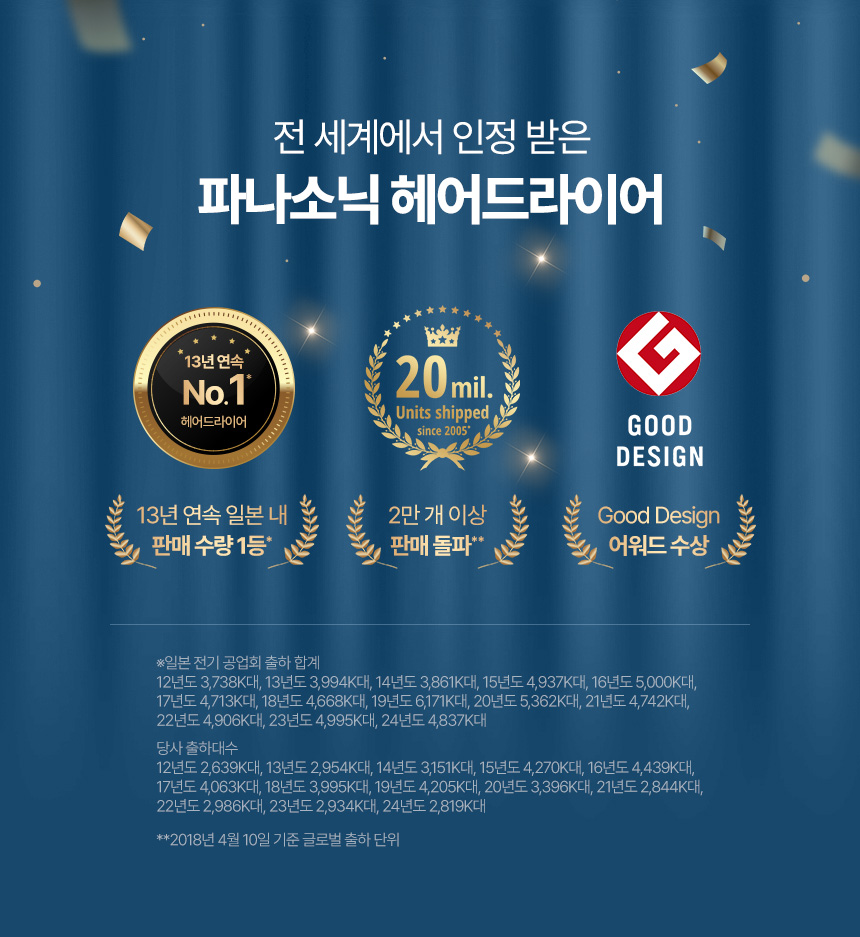
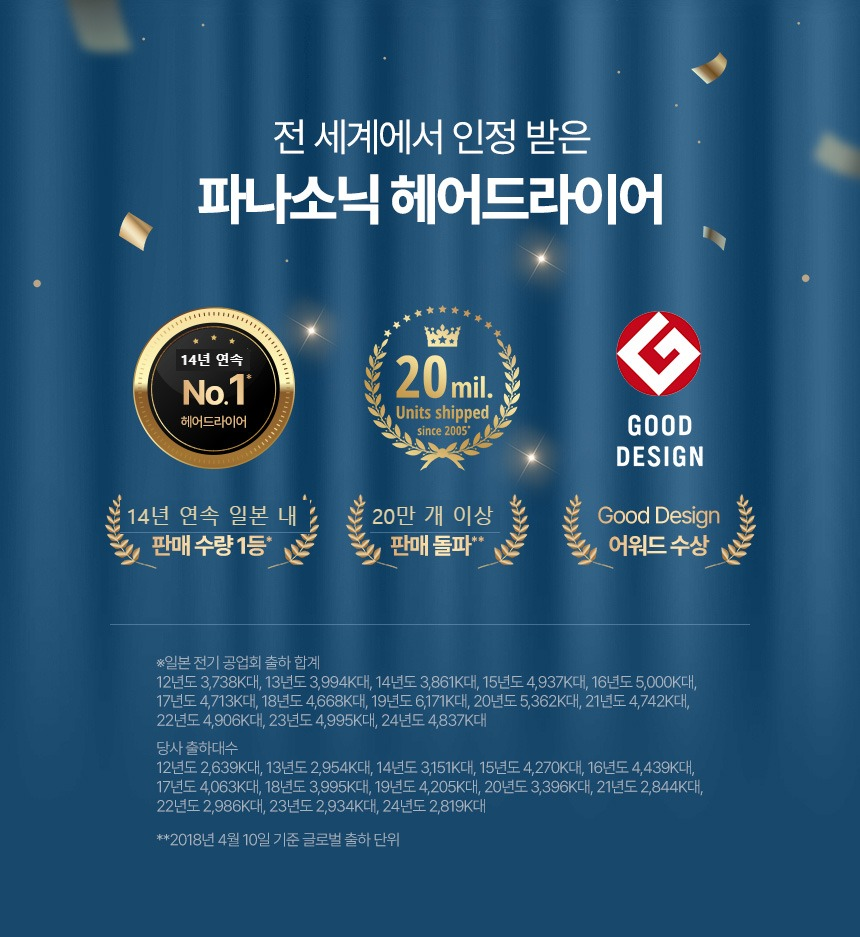
722/8
전반적인 수정

diff --git a/SensLink 홈페이지.dc.html b/SensLink 홈페이지.dc.html
@@ -26,6 +26,7 @@ div[style*="font-size:12px;padding:11px 22px;border-radius:5px"]{white-space:now
   div[style*="max-width:900px"],div[style*="max-width: 900px"],div[style*="max-width:1100px"],div[style*="max-width: 1100px"],div[style*="max-width:860px"],div[style*="max-width: 860px"]{padding-left:16px!important;padding-right:16px!important;box-sizing:border-box;}
   img{max-width:100%;}
   div[style*="grid-template-columns:repeat(4"],div[style*="grid-template-columns: repeat(4"]{grid-template-columns:repeat(2,1fr)!important;}
+  .review-grid{grid-template-columns:1fr!important;}
   div[style*="grid-template-columns:repeat(6"],div[style*="grid-template-columns: repeat(6"]{grid-template-columns:repeat(3,1fr)!important;}
   div[style*="grid-template-columns:repeat(3"],div[style*="grid-template-columns: repeat(3"]{grid-template-columns:repeat(1,1fr)!important;}
   div[style*="padding:8px 40px"],div[style*="padding: 8px 40px"]{padding:8px 16px!important;gap:6px!important;font-size:10px!important;overflow-x:auto;white-space:nowrap;}
@@ -63,10 +64,10 @@ div[style*="font-size:12px;padding:11px 22px;border-radius:5px"]{white-space:now
   div[style*="font-size:12px;padding:11px 22px;border-radius:5px"]{padding:10px 16px!important;font-size:13px!important;}
   .btn-suffix{display:none!important;}
   .hero-photo-mobile{display:block!important;width:100%;aspect-ratio:1/1;object-fit:cover;object-position:center center;}
-  .hero-copy div[style*="font-size:44px"]{font-size:17px!important;line-height:1.35!important;word-break:keep-all;white-space:nowrap;}
-  .hero-copy div[style*="font-size:44px"]>span:first-child{font-size:12px!important;}
-  .hero-copy div[style*="font-size:44px"]>span:last-child{font-size:15px!important;}
-  .hero-copy div[style*="font-size:44px"]>span:last-child u{font-size:15px!important;}
+  .hero-copy div[style*="font-size:40px"]{font-size:17px!important;line-height:1.35!important;word-break:keep-all;white-space:nowrap;}
+  .hero-copy div[style*="font-size:40px"]>span:first-child{font-size:12px!important;}
+  .hero-copy div[style*="font-size:40px"]>span:last-child{font-size:15px!important;}
+  .hero-copy div[style*="font-size:40px"]>span:last-child u{font-size:15px!important;}
   .hero-copy .hero-desc{font-size:13px!important;max-width:100%!important;margin-top:12px!important;word-break:keep-all;}
   .hero-copy div[style*="display:flex;gap:12px;margin-top:32px"]{margin-top:16px!important;justify-content:center!important;}
   #as-center-section{padding:0 12px 40px!important;}
@@ -118,8 +119,8 @@ div[style*="font-size:12px;padding:11px 22px;border-radius:5px"]{white-space:now
     </div>
     <div class="hero-copy" style="flex:1;min-width:0;">
       
-      <div style="font-size:44px;font-weight:800;line-height:1.25;color:#fff;letter-spacing:-.02em;"><span style="font-weight: 700; font-family: Arial; font-style: italic">일본 2천만대 판매&nbsp;</span><br><span style="font-weight: normal; color: rgb(226, 59, 59);"><img src="assets/japan-badge-red.png" alt="日本" style="height:0.85em;width:auto;vertical-align:-0.12em;display:inline-block;margin-right:6px;">
-<u style="font-family: Arial; text-decoration-line: none; font-weight: 700; text-transform: none; letter-spacing: -0.04em; font-size: 38px">14년 연속 판매 1위</u></span></div><div class="hero-desc" style="font-size: 16px; color: #fff; line-height: 1.6; margin-top: 20px; max-width: 460px; font-family: 'Pretendard', system-ui, sans-serif"><b style="background-color: #E51016">파나소닉 나노케어 헤어드라이기의 놀라운 효과<br>정품인증을 보증하며 14년간 일본 1위 제품을 만나보세요.</b></div>
+      <div style="font-size:40px;font-weight:800;line-height:1.25;color:#fff;letter-spacing:-.02em;"><span style="font-weight: 700; font-family: Arial; font-style: italic; color: #202020">일본 2천만대 판매&nbsp;</span><br><span style="font-weight: normal; color: #D4A94E;"><img src="assets/japan-badge-red.png" alt="日本" style="height:0.85em;width:auto;vertical-align:-0.12em;display:inline-block;margin-right:6px;">
+<u style="font-family: Arial; text-decoration-line: none; font-weight: 700; text-transform: none; letter-spacing: -0.04em; font-size: 34px">14년 연속 판매1위</u></span></div><div class="hero-desc" style="font-size: 19px; color: #1D5FBF; font-weight: 300; line-height: 1.6; margin-top: 20px; max-width: 460px; font-family: 'Pretendard', system-ui, sans-serif">파나소닉 나노케어 헤어드라이기의 놀라운 효과<br>정품인증을 보증하며 14년간 일본 1위 제품을 만나보세요.</div>
       <div style="display:flex;gap:12px;margin-top:32px;">
         <a href="SensLink 전체상품.dc.html" style="text-decoration:none;"><div style="background:#E23B3B;color:#fff;font-weight:700;font-size:12px;padding:11px 22px;border-radius:5px;" style-hover="background:#C42E2E;">전체 상품<span class="btn-suffix"> 보기</span></div></a>
         <a href="#best-products-section" style="text-decoration:none;"><div style="background:transparent;border:1px solid rgba(255,255,255,.5);color:#fff;font-weight:700;font-size:12px;padding:11px 22px;border-radius:5px;" style-hover="background:#E23B3B;border-color:#E23B3B;">베스트 상품<span class="btn-suffix"> 보기</span></div></a>
@@ -157,7 +158,7 @@ div[style*="font-size:12px;padding:11px 22px;border-radius:5px"]{white-space:now
       <div style="width:40px;height:40px;border-radius:50%;background:#fff;flex:none;display:flex;align-items:center;justify-content:center;box-shadow:0 2px 8px rgba(11,35,64,0.35);"><svg width="20" height="20" viewBox="0 0 24 24" fill="none" stroke="#1D5FBF" stroke-width="2" stroke-linecap="round" stroke-linejoin="round"><path d="M20 10c0 6-8 12-8 12s-8-6-8-12a8 8 0 0 1 16 0z"></path><circle cx="12" cy="10" r="3"></circle></svg></div>
       <div><div style="font-weight:700;font-size:14px;">전국 27개 센터 보유 프리미엄 브랜드</div><div style="font-size:12px;color:#C9D9F2;">전국 어디서나 빠른 서비스</div></div>
     </a>
-    <div style="background:linear-gradient(135deg,#0B2340 0%,#1D5FBF 100%);color:#fff;border-radius:10px;padding:20px;display:flex;gap:14px;align-items:center;">
+    <div onClick="{{ callCenter }}" style="background:linear-gradient(135deg,#0B2340 0%,#1D5FBF 100%);color:#fff;border-radius:10px;padding:20px;display:flex;gap:14px;align-items:center;cursor:pointer;">
       <div style="width:40px;height:40px;border-radius:50%;background:#fff;flex:none;display:flex;align-items:center;justify-content:center;box-shadow:0 2px 8px rgba(11,35,64,0.35);"><svg width="20" height="20" viewBox="0 0 24 24" fill="none" stroke="#1D5FBF" stroke-width="2" stroke-linecap="round" stroke-linejoin="round"><path d="M22 16.92v3a2 2 0 0 1-2.18 2 19.79 19.79 0 0 1-8.63-3.07 19.5 19.5 0 0 1-6-6 19.79 19.79 0 0 1-3.07-8.67A2 2 0 0 1 4.11 2h3a2 2 0 0 1 2 1.72c.12.96.37 1.9.72 2.81a2 2 0 0 1-.45 2.11L8.09 9.91a16 16 0 0 0 6 6l1.27-1.27a2 2 0 0 1 2.11-.45c.91.35 1.85.6 2.81.72A2 2 0 0 1 22 16.92z"></path></svg></div>
       <div><div style="font-weight:700;font-size:14px;">대표번호&nbsp; 1544-0344</div><div style="font-size:12px;color:#C9D9F2;">고객센터 상담 연결</div></div>
     </div>
@@ -250,21 +251,26 @@ div[style*="font-size:12px;padding:11px 22px;border-radius:5px"]{white-space:now
 
   <div style="padding:56px 40px;">
     <div style="font-size:22px;font-weight:800;margin-bottom:24px;">실사용 고객 리뷰</div>
-    <div style="display:grid;grid-template-columns:repeat(3,1fr);gap:18px;">
+    <div class="review-grid" style="display:grid;grid-template-columns:repeat(4,1fr);gap:18px;">
       <div style="background:#fff;border:1px solid #E7E7E2;border-radius:10px;padding:22px;">
         <div style="color:#F5A100;font-size:13px;">★★★★★</div>
-        <div style="font-size:14px;line-height:1.7;margin-top:10px;color:#333;">"정품 인증서랑 같이 와서 안심하고 샀어요. 배송도 빠르고 A/S 설명도 자세히 해주셨습니다."</div>
-        <div style="font-size:12px;color:#9CA3AF;margin-top:12px;">나노케어 헤어드라이기 구매자</div>
+        <div style="font-size:14px;line-height:1.7;margin-top:10px;color:#333;">"무거워 보였으나 전혀 무겁지 않고 딱 잡아주는 그립감에 만족하며, 머리를 말리고 나니 마치 헤어 에센스를 바른듯 부드러운 머릿결에 감탄하였어요."</div>
+        <div style="font-size:12px;color:#9CA3AF;margin-top:12px;">ykja****** · 나노이 접이식 드라이기 EH-NA7M 구매자</div>
       </div>
       <div style="background:#fff;border:1px solid #E7E7E2;border-radius:10px;padding:22px;">
         <div style="color:#F5A100;font-size:13px;">★★★★★</div>
-        <div style="font-size:14px;line-height:1.7;margin-top:10px;color:#333;">"타 판매처보다 저렴한데 정품이라 더 믿음이 갔어요. 재구매 의사 있습니다."</div>
-        <div style="font-size:12px;color:#9CA3AF;margin-top:12px;">전기면도기 구매자</div>
+        <div style="font-size:14px;line-height:1.7;margin-top:10px;color:#333;">"보기에도 이쁘고 바람도 세고 좋습니다. 그리고 머릿결이 부드러워져서 좋아요."</div>
+        <div style="font-size:12px;color:#9CA3AF;margin-top:12px;">no**** · 나노이 접이식 드라이기 EH-NA7M 구매자</div>
       </div>
       <div style="background:#fff;border:1px solid #E7E7E2;border-radius:10px;padding:22px;">
         <div style="color:#F5A100;font-size:13px;">★★★★★</div>
-        <div style="font-size:14px;line-height:1.7;margin-top:10px;color:#333;">"문의 답변이 빨라서 좋았고, 서비스센터가 가까이 있어서 안심됩니다."</div>
-        <div style="font-size:12px;color:#9CA3AF;margin-top:12px;">구강세정기 구매자</div>
+        <div style="font-size:14px;line-height:1.7;margin-top:10px;color:#333;">"언박싱하고 지금 막 사용해봤는데 일단 만족합니다. 머릿결이 찰랑거리는 느낌, 스타일도 세련되고 이제 파나소닉만 쓸것 같네요. 강추"</div>
+        <div style="font-size:12px;color:#9CA3AF;margin-top:12px;">drag********** · 나노이 접이식 드라이기 EH-NA7M 구매자</div>
+      </div>
+      <div style="background:#fff;border:1px solid #E7E7E2;border-radius:10px;padding:22px;">
+        <div style="color:#F5A100;font-size:13px;">★★★★★</div>
+        <div style="font-size:14px;line-height:1.7;margin-top:10px;color:#333;">"나노이 기능이 너무 좋아요. 다른 드라이기는 이제 못쓰겠네요."</div>
+        <div style="font-size:12px;color:#9CA3AF;margin-top:12px;">rjsg***** · 나노이 접이식 드라이기 EH-NA7M 구매자</div>
       </div>
     </div>
   </div>
@@ -336,11 +342,13 @@ div[style*="font-size:12px;padding:11px 22px;border-radius:5px"]{white-space:now
       </div>
       <div>
         <div style="color:#fff;font-weight:700;margin-bottom:10px;">사업자정보</div>
-        <div>상호명: 주식회사 센스링크</div>
-        <div>대표자: 장필상</div>
-        <div>사업자등록번호: 217-81-52202</div>
-        <div>통신판매업신고번호: 2026-서울강남-02086</div>
-        <div>고객센터: 02-1544-0344 · [email redacted]</div>
+        <div style="display:flex;flex-direction:column;gap:8px;line-height:1.5;word-break:keep-all;">
+        <div style="margin:0;">상호명: 주식회사 센스링크</div>
+        <div style="margin:0;">대표자: 장필상</div>
+        <div style="margin:0;">사업자등록번호: 217-81-52202</div>
+        <div style="margin:0;">통신판매업신고번호: 2026-서울강남-02086</div>
+        <div style="margin:0;">고객센터: 1544-0344 · [email redacted]</div>
+        </div>
       </div>
     </div>
     <div style="margin-top:28px;padding-top:20px;border-top:1px solid #16294A;color:#5D7096;">© 2026 SensLink Co., Ltd. All rights reserved.</div>
@@ -371,6 +379,12 @@ class Component extends DCLogic {
   renderVals() {
     return {
       topNotices: this.loadNotices(),
+      callCenter: () => {
+        if (window.innerWidth > 900) return;
+        if (confirm('고객센터 1544-0344로 전화를 걸까요?')) {
+          window.location.href = 'tel:[phone redacted]';
+        }
+      },
       heroVideoRef: (el) => {
         if (!el) return;
         // PC: 원본 고화질 영상 / 모바일: 호환 인코딩 영상

diff --git a/index.html b/index.html
@@ -73,10 +73,10 @@ div[style*="font-size:12px;padding:11px 22px;border-radius:5px"]{white-space:now
   div[style*="font-size:12px;padding:11px 22px;border-radius:5px"]{padding:10px 16px!important;font-size:13px!important;}
   .btn-suffix{display:none!important;}
   .hero-photo-mobile{display:block!important;width:100%;aspect-ratio:1/1;object-fit:cover;object-position:center center;}
-  .hero-copy div[style*="font-size:44px"]{font-size:17px!important;line-height:1.35!important;word-break:keep-all;white-space:nowrap;}
-  .hero-copy div[style*="font-size:44px"]>span:first-child{font-size:12px!important;}
-  .hero-copy div[style*="font-size:44px"]>span:last-child{font-size:15px!important;}
-  .hero-copy div[style*="font-size:44px"]>span:last-child u{font-size:15px!important;}
+  .hero-copy div[style*="font-size:40px"]{font-size:17px!important;line-height:1.35!important;word-break:keep-all;white-space:nowrap;}
+  .hero-copy div[style*="font-size:40px"]>span:first-child{font-size:12px!important;}
+  .hero-copy div[style*="font-size:40px"]>span:last-child{font-size:15px!important;}
+  .hero-copy div[style*="font-size:40px"]>span:last-child u{font-size:15px!important;}
   .hero-copy .hero-desc{font-size:13px!important;max-width:100%!important;margin-top:12px!important;word-break:keep-all;}
   .hero-copy div[style*="display:flex;gap:12px;margin-top:32px"]{margin-top:16px!important;justify-content:center!important;}
   #as-center-section{padding:0 12px 40px!important;}
@@ -119,8 +119,8 @@ div[style*="font-size:12px;padding:11px 22px;border-radius:5px"]{white-space:now
     </div>
     <div class="hero-copy" style="flex:1;min-width:0;">
       
-      <div style="font-size:44px;font-weight:800;line-height:1.25;color:#fff;letter-spacing:-.02em;"><span style="font-weight: 700; font-family: Arial; font-style: italic">일본 2천만대 판매&nbsp;</span><br><span style="font-weight: normal; color: rgb(226, 59, 59);"><img src="assets/japan-badge-red.png" alt="日本" style="height:0.85em;width:auto;vertical-align:-0.12em;display:inline-block;margin-right:6px;">
-<u style="font-family: Arial; text-decoration-line: none; font-weight: 700; text-transform: none; letter-spacing: -0.04em; font-size: 38px">14년 연속 판매 1위</u></span></div><div class="hero-desc" style="font-size: 16px; color: #fff; line-height: 1.6; margin-top: 20px; max-width: 460px; font-family: 'Pretendard', system-ui, sans-serif"><b style="background-color: #E51016">파나소닉 나노케어 헤어드라이기의 놀라운 효과<br>정품인증을 보증하며 14년간 일본 1위 제품을 만나보세요.</b></div>
+      <div style="font-size:40px;font-weight:800;line-height:1.25;color:#fff;letter-spacing:-.02em;"><span style="font-weight: 700; font-family: Arial; font-style: italic; color: #202020">일본 2천만대 판매&nbsp;</span><br><span style="font-weight: normal; color: #D4A94E;"><img src="assets/japan-badge-red.png" alt="日本" style="height:0.85em;width:auto;vertical-align:-0.12em;display:inline-block;margin-right:6px;">
+<u style="font-family: Arial; text-decoration-line: none; font-weight: 700; text-transform: none; letter-spacing: -0.04em; font-size: 34px">14년 연속 판매1위</u></span></div><div class="hero-desc" style="font-size: 19px; color: #1D5FBF; font-weight: 300; line-height: 1.6; margin-top: 20px; max-width: 460px; font-family: 'Pretendard', system-ui, sans-serif">파나소닉 나노케어 헤어드라이기의 놀라운 효과<br>정품인증을 보증하며 14년간 일본 1위 제품을 만나보세요.</div>
       <div style="display:flex;gap:12px;margin-top:32px;">
         <a href="SensLink 전체상품.dc.html" style="text-decoration:none;"><div style="background:#E23B3B;color:#fff;font-weight:700;font-size:12px;padding:11px 22px;border-radius:5px;" style-hover="background:#C42E2E;">전체 상품<span class="btn-suffix"> 보기</span></div></a>
         <a href="#best-products-section" style="text-decoration:none;"><div style="background:transparent;border:1px solid rgba(255,255,255,.5);color:#fff;font-weight:700;font-size:12px;padding:11px 22px;border-radius:5px;" style-hover="background:#E23B3B;border-color:#E23B3B;">베스트 상품<span class="btn-suffix"> 보기</span></div></a>
@@ -342,11 +342,13 @@ div[style*="font-size:12px;padding:11px 22px;border-radius:5px"]{white-space:now
       </div>
       <div>
         <div style="color:#fff;font-weight:700;margin-bottom:10px;">사업자정보</div>
-        <div>상호명: 주식회사 센스링크</div>
-        <div>대표자: 장필상</div>
-        <div>사업자등록번호: 217-81-52202</div>
-        <div>통신판매업신고번호: 2026-서울강남-02086</div>
-        <div>고객센터: 02-1544-0344 · [email redacted]</div>
+        <div style="display:flex;flex-direction:column;gap:8px;line-height:1.5;word-break:keep-all;">
+        <div style="margin:0;">상호명: 주식회사 센스링크</div>
+        <div style="margin:0;">대표자: 장필상</div>
+        <div style="margin:0;">사업자등록번호: 217-81-52202</div>
+        <div style="margin:0;">통신판매업신고번호: 2026-서울강남-02086</div>
+        <div style="margin:0;">고객센터: 1544-0344 · [email redacted]</div>
+        </div>
       </div>
     </div>
     <div style="margin-top:28px;padding-top:20px;border-top:1px solid #16294A;color:#5D7096;">© 2026 SensLink Co., Ltd. All rights reserved.</div>

diff --git a/SensLink 소개.dc.html b/SensLink 소개.dc.html
@@ -84,12 +84,12 @@ a:hover{color:#123B7A;}
     <div class="about-cols" style="max-width:1100px;margin:0 auto;display:flex;gap:56px;align-items:flex-start;">
       <div class="about-col" style="flex:1;">
         <div style="font-size:22px;font-weight:800;margin-bottom:24px;">사업자정보</div>
-        <div class="biz-card" style="background:#0B2340;border-radius:12px;padding:28px 32px;color:#fff;font-size:14px;line-height:2;text-align:center;">
+        <div class="biz-card" style="background:#0B2340;border-radius:12px;padding:28px 32px;color:#fff;font-size:14px;line-height:1.5;text-align:center;display:flex;flex-direction:column;gap:9px;word-break:keep-all;">
           <div>상호명: 주식회사 센스링크</div>
           <div>대표자: 장필상 (010-5456-8885)</div>
           <div>사업자등록번호: 217-81-52202</div>
           <div>통신판매업신고번호: 2026-서울강남-02086</div>
-          <div>고객센터: 02-1544-0344</div>
+          <div>고객센터: 1544-0344</div>
           <div>E-mail: [email redacted]</div>
           <div style="color:#FFFFFF;word-break:break-all;">홈페이지: https://homesenslink.github.io/</div>
         </div>
@@ -137,11 +137,13 @@ a:hover{color:#123B7A;}
       </div>
       <div>
         <div style="color:#fff;font-weight:700;margin-bottom:10px;">사업자정보</div>
-        <div style="margin-bottom:16px;">상호명: 주식회사 센스링크</div>
-        <div>대표자: 장필상</div>
-        <div>사업자등록번호: 217-81-52202</div>
-        <div>통신판매업신고번호: 2026-서울강남-02086</div>
-        <div>고객센터: 02-1544-0344 · [email redacted]</div>
+        <div style="display:flex;flex-direction:column;gap:8px;line-height:1.5;word-break:keep-all;">
+        <div style="margin:0;">상호명: 주식회사 센스링크</div>
+        <div style="margin:0;">대표자: 장필상</div>
+        <div style="margin:0;">사업자등록번호: 217-81-52202</div>
+        <div style="margin:0;">통신판매업신고번호: 2026-서울강남-02086</div>
+        <div style="margin:0;">고객센터: 1544-0344 · [email redacted]</div>
+        </div>
       </div>
     </div>
     <div style="margin-top:28px;padding-top:20px;border-top:1px solid #16294A;color:#5D7096;">© 2026 SensLink Co., Ltd. All rights reserved.</div>

diff --git a/SensLink 전체상품.dc.html b/SensLink 전체상품.dc.html
@@ -45,6 +45,8 @@ a:hover{color:#123B7A;}
   a[style*="display:flex"],a[style*="display: flex"]{flex-wrap:wrap!important;}
   div[style*="position:absolute"][style*="width:220"],div[style*="position: absolute"][style*="width: 220"]{display:none!important;}
   .prod-grid{grid-template-columns:repeat(2,1fr)!important;}
+  .prod-grid div[style*="height:190px"]{height:auto!important;aspect-ratio:1/1;}
+  .prod-grid div[style*="-webkit-line-clamp:3"]{height:auto!important;max-height:57px;-webkit-line-clamp:2!important;}
   .cat-layout{flex-direction:column!important;}
   .cat-sidebar{width:100%!important;position:static!important;box-sizing:border-box!important;}
 }
@@ -251,11 +253,13 @@ a:hover{color:#123B7A;}
       </div>
       <div>
         <div style="color:#fff;font-weight:700;margin-bottom:10px;">사업자정보</div>
-        <div>상호명: 주식회사 센스링크</div>
-        <div>대표자: 장필상</div>
-        <div>사업자등록번호: 217-81-52202</div>
-        <div>통신판매업신고번호: 2026-서울강남-02086</div>
-        <div>고객센터: 02-1544-0344 · [email redacted]</div>
+        <div style="display:flex;flex-direction:column;gap:8px;line-height:1.5;word-break:keep-all;">
+        <div style="margin:0;">상호명: 주식회사 센스링크</div>
+        <div style="margin:0;">대표자: 장필상</div>
+        <div style="margin:0;">사업자등록번호: 217-81-52202</div>
+        <div style="margin:0;">통신판매업신고번호: 2026-서울강남-02086</div>
+        <div style="margin:0;">고객센터: 1544-0344 · [email redacted]</div>
+        </div>
       </div>
     </div>
     <div style="margin-top:28px;padding-top:20px;border-top:1px solid #16294A;color:#5D7096;">© 2026 SensLink Co., Ltd. All rights reserved.</div>

diff --git a/SensLink 공지사항.dc.html b/SensLink 공지사항.dc.html
@@ -169,11 +169,13 @@ textarea, input{font-family:'Pretendard',system-ui,sans-serif;}
       </div>
       <div>
         <div style="color:#fff;font-weight:700;margin-bottom:10px;">사업자정보</div>
-        <div>상호명: 주식회사 센스링크</div>
-        <div>대표자: 장필상</div>
-        <div>사업자등록번호: 217-81-52202</div>
-        <div>통신판매업신고번호: 2026-서울강남-02086</div>
-        <div>고객센터: 02-1544-0344 · [email redacted]</div>
+        <div style="display:flex;flex-direction:column;gap:8px;line-height:1.5;word-break:keep-all;">
+        <div style="margin:0;">상호명: 주식회사 센스링크</div>
+        <div style="margin:0;">대표자: 장필상</div>
+        <div style="margin:0;">사업자등록번호: 217-81-52202</div>
+        <div style="margin:0;">통신판매업신고번호: 2026-서울강남-02086</div>
+        <div style="margin:0;">고객센터: 1544-0344 · [email redacted]</div>
+        </div>
       </div>
     </div>
     <div style="margin-top:28px;padding-top:20px;border-top:1px solid #16294A;color:#5D7096;">© 2026 SensLink Co., Ltd. All rights reserved.</div>

diff --git a/SensLink 나노이 기술.dc.html b/SensLink 나노이 기술.dc.html
@@ -285,11 +285,13 @@ a:hover{color:#123B7A;}
       </div>
       <div>
         <div style="color:#fff;font-weight:700;margin-bottom:10px;">사업자정보</div>
-        <div>상호명: 주식회사 센스링크</div>
-        <div>대표자: 장필상</div>
-        <div>사업자등록번호: 217-81-52202</div>
-        <div>통신판매업신고번호: 2026-서울강남-02086</div>
-        <div>고객센터: 02-1544-0344 · [email redacted]</div>
+        <div style="display:flex;flex-direction:column;gap:8px;line-height:1.5;word-break:keep-all;">
+        <div style="margin:0;">상호명: 주식회사 센스링크</div>
+        <div style="margin:0;">대표자: 장필상</div>
+        <div style="margin:0;">사업자등록번호: 217-81-52202</div>
+        <div style="margin:0;">통신판매업신고번호: 2026-서울강남-02086</div>
+        <div style="margin:0;">고객센터: 1544-0344 · [email redacted]</div>
+        </div>
       </div>
     </div>
     <div style="margin-top:28px;padding-top:20px;border-top:1px solid #16294A;color:#5D7096;">© 2026 SensLink Co., Ltd. All rights reserved.</div>

diff --git a/SensLink 묻고답하기.dc.html b/SensLink 묻고답하기.dc.html
@@ -212,11 +212,13 @@ textarea, input{font-family:'Pretendard',system-ui,sans-serif;}
       </div>
       <div>
         <div style="color:#fff;font-weight:700;margin-bottom:10px;">사업자정보</div>
-        <div>상호명: 주식회사 센스링크</div>
-        <div>대표자: 장필상</div>
-        <div>사업자등록번호: 217-81-52202</div>
-        <div>통신판매업신고번호: 2026-서울강남-02086</div>
-        <div>고객센터: 02-1544-0344 · [email redacted]</div>
+        <div style="display:flex;flex-direction:column;gap:8px;line-height:1.5;word-break:keep-all;">
+        <div style="margin:0;">상호명: 주식회사 센스링크</div>
+        <div style="margin:0;">대표자: 장필상</div>
+        <div style="margin:0;">사업자등록번호: 217-81-52202</div>
+        <div style="margin:0;">통신판매업신고번호: 2026-서울강남-02086</div>
+        <div style="margin:0;">고객센터: 1544-0344 · [email redacted]</div>
+        </div>
       </div>
     </div>
     <div style="margin-top:28px;padding-top:20px;border-top:1px solid #16294A;color:#5D7096;">© 2026 SensLink Co., Ltd. All rights reserved.</div>

diff --git a/SensLink 상품상세-고데기.dc.html b/SensLink 상품상세-고데기.dc.html
@@ -232,11 +232,13 @@ a:hover{color:#123B7A;}
       </div>
       <div>
         <div style="color:#fff;font-weight:700;margin-bottom:10px;">사업자정보</div>
-        <div>상호명: 주식회사 센스링크</div>
-        <div>대표자: 장필상</div>
-        <div>사업자등록번호: 217-81-52202</div>
-        <div>통신판매업신고번호: 2026-서울강남-02086</div>
-        <div>고객센터: 02-1544-0344 · [email redacted]</div>
+        <div style="display:flex;flex-direction:column;gap:8px;line-height:1.5;word-break:keep-all;">
+        <div style="margin:0;">상호명: 주식회사 센스링크</div>
+        <div style="margin:0;">대표자: 장필상</div>
+        <div style="margin:0;">사업자등록번호: 217-81-52202</div>
+        <div style="margin:0;">통신판매업신고번호: 2026-서울강남-02086</div>
+        <div style="margin:0;">고객센터: 1544-0344 · [email redacted]</div>
+        </div>
       </div>
     </div>
     <div style="margin-top:28px;padding-top:20px;border-top:1px solid #16294A;color:#5D7096;">© 2026 SensLink Co., Ltd. All rights reserved.</div>

diff --git a/SensLink 상품상세-구강세정기.dc.html b/SensLink 상품상세-구강세정기.dc.html
@@ -275,11 +275,13 @@ a:hover{color:#123B7A;}
       </div>
       <div>
         <div style="color:#fff;font-weight:700;margin-bottom:10px;">사업자정보</div>
-        <div>상호명: 주식회사 센스링크</div>
-        <div>대표자: 장필상</div>
-        <div>사업자등록번호: 217-81-52202</div>
-        <div>통신판매업신고번호: 2026-서울강남-02086</div>
-        <div>고객센터: 02-1544-0344 · [email redacted]</div>
+        <div style="display:flex;flex-direction:column;gap:8px;line-height:1.5;word-break:keep-all;">
+        <div style="margin:0;">상호명: 주식회사 센스링크</div>
+        <div style="margin:0;">대표자: 장필상</div>
+        <div style="margin:0;">사업자등록번호: 217-81-52202</div>
+        <div style="margin:0;">통신판매업신고번호: 2026-서울강남-02086</div>
+        <div style="margin:0;">고객센터: 1544-0344 · [email redacted]</div>
+        </div>
       </div>
     </div>
     <div style="margin-top:28px;padding-top:20px;border-top:1px solid #16294A;color:#5D7096;">© 2026 SensLink Co., Ltd. All rights reserved.</div>

diff --git a/SensLink 상품상세-나노케어NA0K.dc.html b/SensLink 상품상세-나노케어NA0K.dc.html
@@ -261,11 +261,13 @@ a:hover{color:#123B7A;}
       </div>
       <div>
         <div style="color:#fff;font-weight:700;margin-bottom:10px;">사업자정보</div>
-        <div>상호명: 주식회사 센스링크</div>
-        <div>대표자: 장필상</div>
-        <div>사업자등록번호: 217-81-52202</div>
-        <div>통신판매업신고번호: 2026-서울강남-02086</div>
-        <div>고객센터: 02-1544-0344 · [email redacted]</div>
+        <div style="display:flex;flex-direction:column;gap:8px;line-height:1.5;word-break:keep-all;">
+        <div style="margin:0;">상호명: 주식회사 센스링크</div>
+        <div style="margin:0;">대표자: 장필상</div>
+        <div style="margin:0;">사업자등록번호: 217-81-52202</div>
+        <div style="margin:0;">통신판매업신고번호: 2026-서울강남-02086</div>
+        <div style="margin:0;">고객센터: 1544-0344 · [email redacted]</div>
+        </div>
       </div>
     </div>
     <div style="margin-top:28px;padding-top:20px;border-top:1px solid #16294A;color:#5D7096;">© 2026 SensLink Co., Ltd. All rights reserved.</div>

diff --git a/SensLink 상품상세-드라이기2.dc.html b/SensLink 상품상세-드라이기2.dc.html
@@ -261,11 +261,13 @@ a:hover{color:#123B7A;}
       </div>
       <div>
         <div style="color:#fff;font-weight:700;margin-bottom:10px;">사업자정보</div>
-        <div>상호명: 주식회사 센스링크</div>
-        <div>대표자: 장필상</div>
-        <div>사업자등록번호: 217-81-52202</div>
-        <div>통신판매업신고번호: 2026-서울강남-02086</div>
-        <div>고객센터: 02-1544-0344 · [email redacted]</div>
+        <div style="display:flex;flex-direction:column;gap:8px;line-height:1.5;word-break:keep-all;">
+        <div style="margin:0;">상호명: 주식회사 센스링크</div>
+        <div style="margin:0;">대표자: 장필상</div>
+        <div style="margin:0;">사업자등록번호: 217-81-52202</div>
+        <div style="margin:0;">통신판매업신고번호: 2026-서울강남-02086</div>
+        <div style="margin:0;">고객센터: 1544-0344 · [email redacted]</div>
+        </div>
       </div>
     </div>
     <div style="margin-top:28px;padding-top:20px;border-top:1px solid #16294A;color:#5D7096;">© 2026 SensLink Co., Ltd. All rights reserved.</div>

diff --git a/SensLink 상품상세-면도기.dc.html b/SensLink 상품상세-면도기.dc.html
@@ -225,11 +225,13 @@ a:hover{color:#123B7A;}
       </div>
       <div>
         <div style="color:#fff;font-weight:700;margin-bottom:10px;">사업자정보</div>
-        <div>상호명: 주식회사 센스링크</div>
-        <div>대표자: 장필상</div>
-        <div>사업자등록번호: 217-81-52202</div>
-        <div>통신판매업신고번호: 2026-서울강남-02086</div>
-        <div>고객센터: 02-1544-0344 · [email redacted]</div>
+        <div style="display:flex;flex-direction:column;gap:8px;line-height:1.5;word-break:keep-all;">
+        <div style="margin:0;">상호명: 주식회사 센스링크</div>
+        <div style="margin:0;">대표자: 장필상</div>
+        <div style="margin:0;">사업자등록번호: 217-81-52202</div>
+        <div style="margin:0;">통신판매업신고번호: 2026-서울강남-02086</div>
+        <div style="margin:0;">고객센터: 1544-0344 · [email redacted]</div>
+        </div>
       </div>
     </div>
     <div style="margin-top:28px;padding-top:20px;border-top:1px solid #16294A;color:#5D7096;">© 2026 SensLink Co., Ltd. All rights reserved.</div>